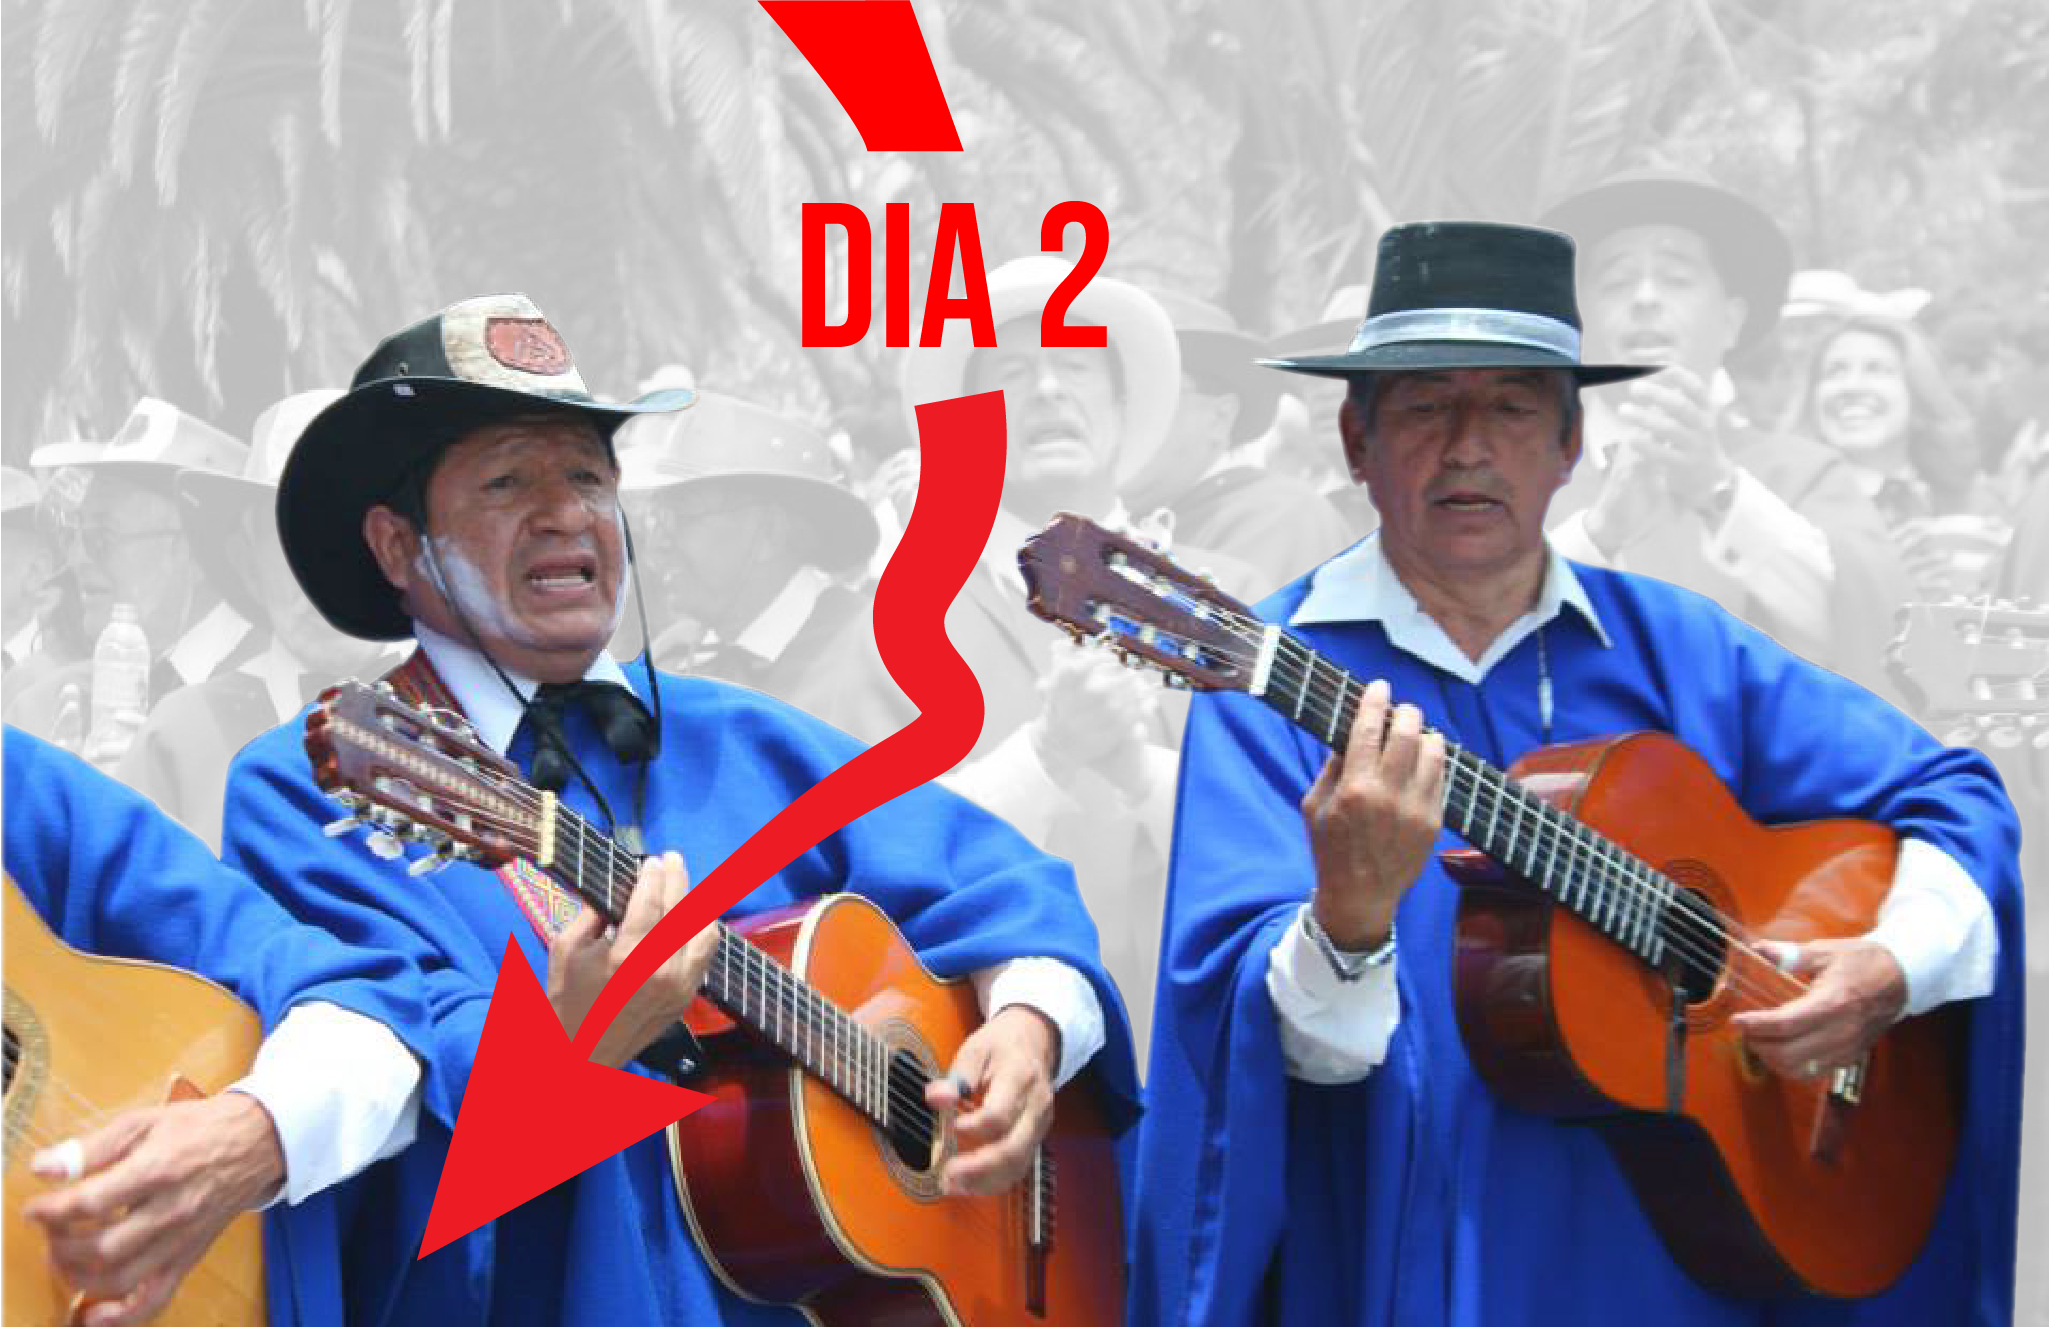
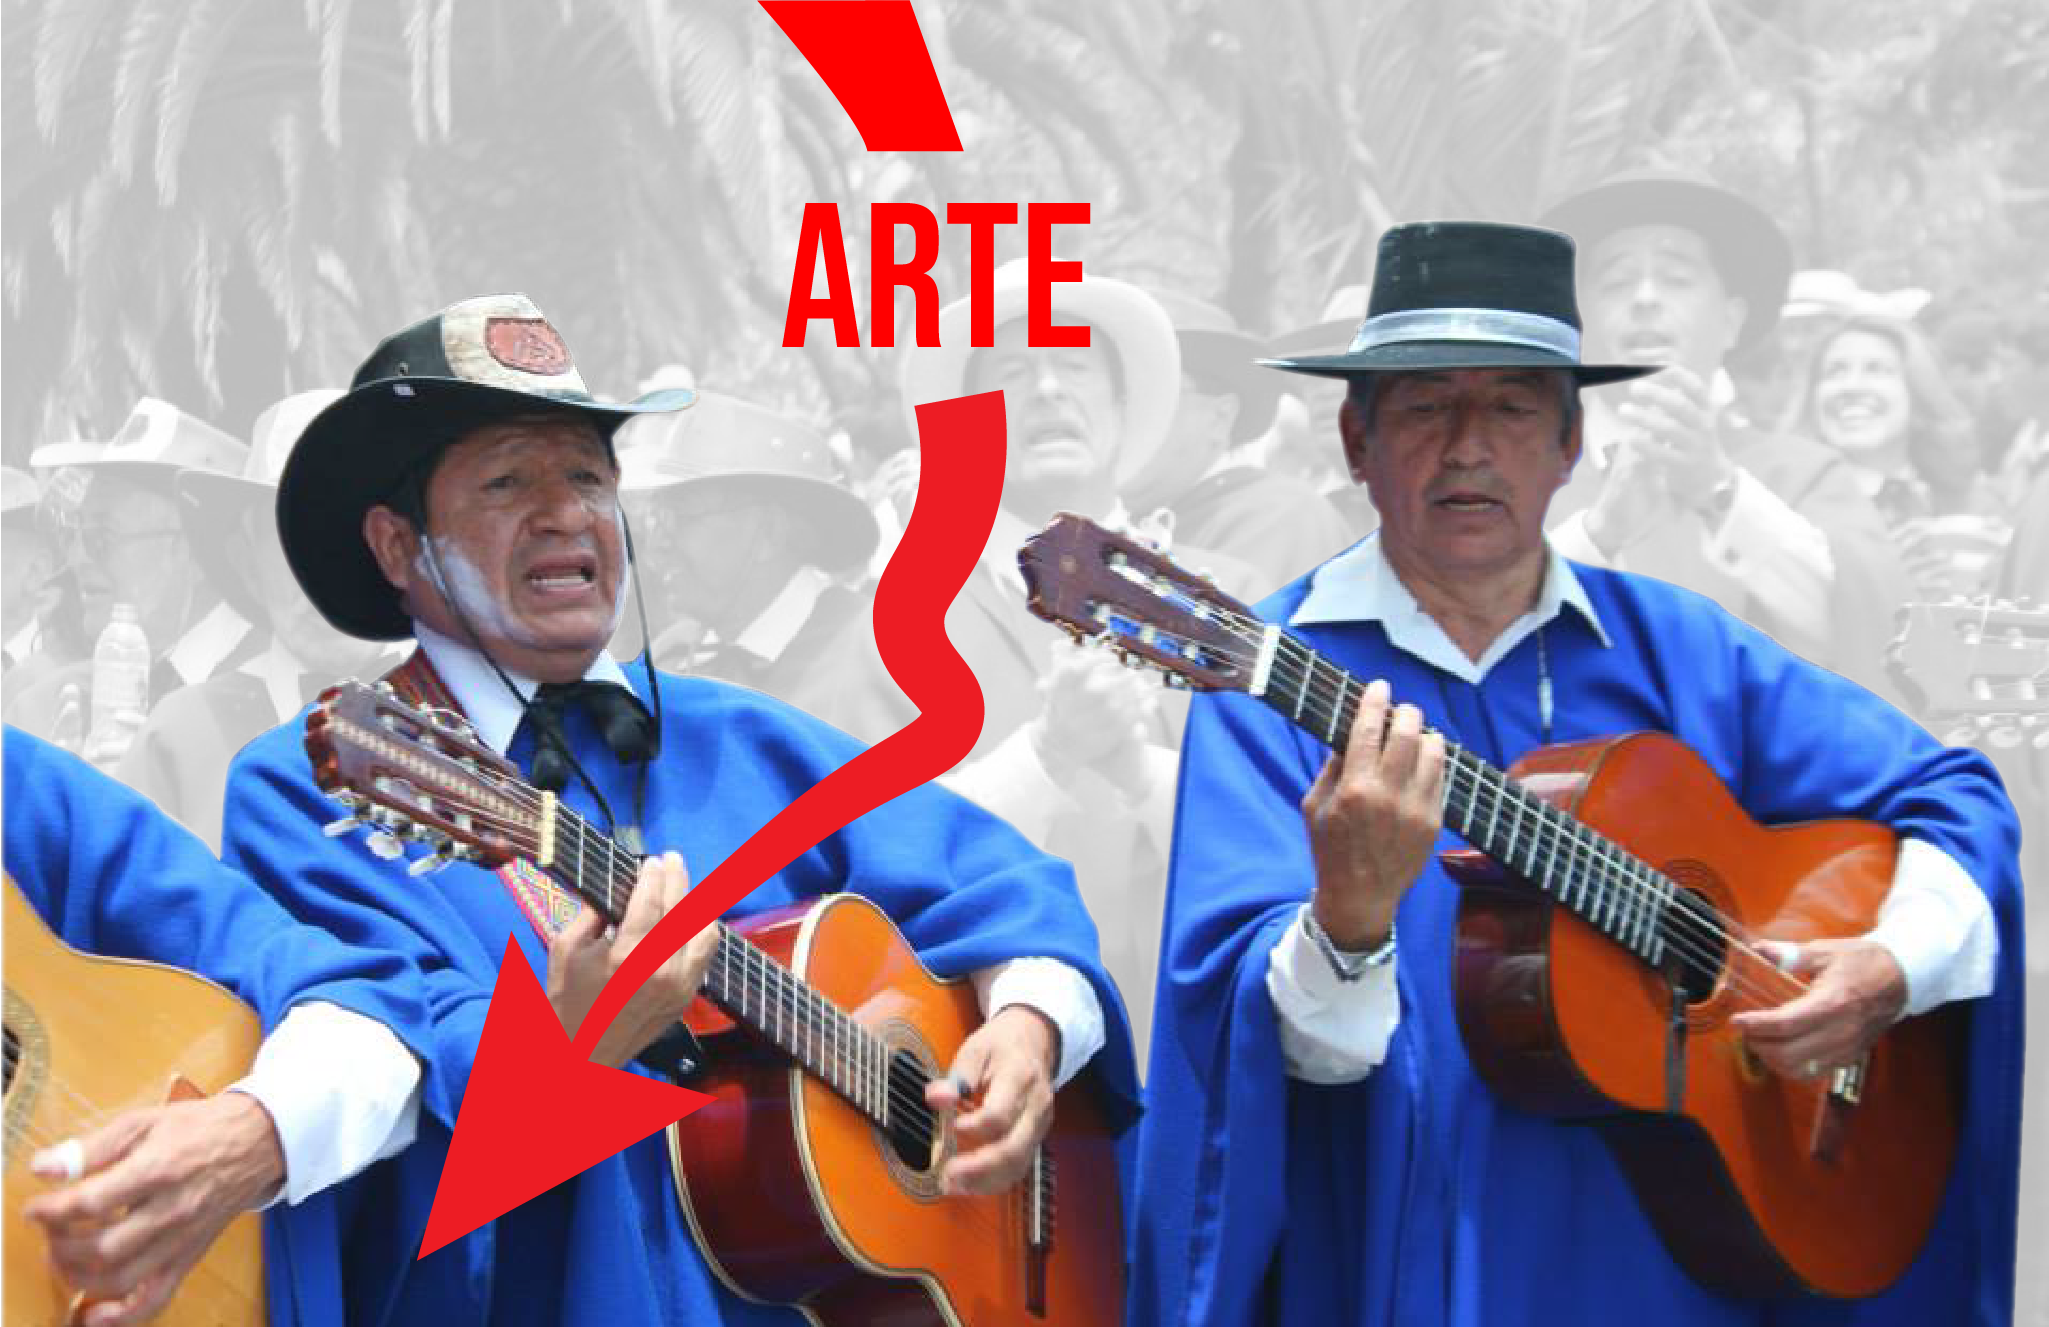
Versión 5

Changed region(s): [[0.3748, 0.1545, 0.5622, 0.2781], [0.531, 0.2472, 0.5622, 0.2781]]

diff --git a/index.html b/index.html
@@ -313,65 +313,16 @@
                 </div>
             </section>
 
-            <section class="container">
-                <div class="row">
-                    <div class="col-sm-10 col-md-8 col-lg-6 mx-auto">
-                        <h3 class="my-5 text-center">Personajes</h3>
-
-                        <div id="carouselExampleIndicators" class="carousel slide" data-bs-ride="true">
-                            <div class="carousel-indicators">
-                                <button type="button" data-bs-target="#carouselExampleIndicators" data-bs-slide-to="0" class="active" aria-current="true" aria-label="Slide 1"></button>
-                                <button type="button" data-bs-target="#carouselExampleIndicators" data-bs-slide-to="1" aria-label="Slide 2"></button>
-                                <button type="button" data-bs-target="#carouselExampleIndicators" data-bs-slide-to="2" aria-label="Slide 3"></button>
-                                <button type="button" data-bs-target="#carouselExampleIndicators" data-bs-slide-to="3" aria-label="Slide 4"></button>
-                            </div>
-                            <div class="carousel-inner">
-                                <div class="carousel-item active">
-                                    <img src="img/taita.png" class="w-100" />
-                                    <div class="carousel-caption d-none d-md-block text-black-50">
-                                        <h5>El Taita</h5>
-                                        <p> Conocido como el "Gran Taita", es quien encabeza los desfiles y baila al compás de la música del pueblo mientras que saborea el legendario y tradicional licor pájaro azul.</p>
-                                    </div>
-                                </div>
-                                <div class="carousel-item">
-                                    <img src="img/taita.png" class="w-100" />
-                                    <div class="carousel-caption d-none d-md-block text-black-50">
-                                        <h5>Huasi Tupac</h5>
-                                        <p>El alma del Carnaval; están encargados de recibir a los carnavaleros con hermandad y cortesía. Hacen preguntas al público por medio de canciones que, de ser contestadas correctamente, son recompensadas con comida típica.</p>
-                                    </div>
-                                </div>
-                                <div class="carousel-item">
-                                    <img src="img/taita.png" class="w-100" />
-                                    <div class="carousel-caption d-none d-md-block text-black-50">
-                                        <h5>La Reina</h5>
-                                        <p> Es elegida comunitariamente, debe representar la unión, la feminidad y ser un modelo a seguir de la comunidad. </p>
-                                    </div>
-                                </div>
-                                <div class="carousel-item">
-                                    <img src="img/carishina.png" class="w-100" />
-                                    <div class="carousel-caption d-none d-md-block text-black-50" >
-                                        <h5>Carishina</h5>
-                                        <p> Es un hombre que se viste de mujer, que va al frente en los carros alegóricos y estos son decorados con flores y paja, así como también encabeza las comparsas. </p>
-                                    </div>
-                                </div>
-                            </div>
-                            <button class="carousel-control-prev" type="button" data-bs-target="#carouselExampleIndicators" data-bs-slide="prev">
-                                <span class="carousel-control-prev-icon" aria-hidden="true"></span>
-                                <span class="visually-hidden">Previous</span>
-                            </button>
-                            <button class="carousel-control-next" type="button" data-bs-target="#carouselExampleIndicators" data-bs-slide="next">
-                                <span class="carousel-control-next-icon" aria-hidden="true"></span>
-                                <span class="visually-hidden">Next</span>
-                            </button>
-                        </div>
-                    </div>
+            <section class="container my-5">
+                <div class="ratio ratio-16x9">
+                    <iframe src="https://www.youtube.com/embed/" title="Resumen del Carnaval" frameborder="0" allow="accelerometer; autoplay; clipboard-write; encrypted-media; gyroscope; picture-in-picture" allowfullscreen=""></iframe>
                 </div>
             </section>
 
             <section class="container">
                 <div class="row">
                     <div class="col-sm-10 col-md-8 mx-auto my-5">
-
+                        <h3 class="my-5 text-center">Festividades</h3>
                         <!--impar-->
                         <div class="row align-items-center my-3">
                             <div class="col-md-6">
@@ -379,7 +330,6 @@
                             </div>
                             <div class="col-md-6">
                                 <div class="text-md-start p-4">
-                                    <h5 style="color:grey;"> El primer día</h5>
                                     <h4>EL CARNAVAL</h4>
                                     <p class="lead my-6">
                                         Desfilan coloridas comparsas de diversas comunidades campesinas e invitados de otras provincias. Participan los carros alegóricos, bandas de pueblo, grupos folclóricos, escuelas, la Reina de Guaranda y, por supuesto, el Taita.
@@ -394,7 +344,6 @@
                             </div>
                             <div class="col-md-6">
                                 <div class="text-md-end p-4">
-                                    <h5 style="color:grey;"> El segundo día</h5>
                                     <h4>CELEBRACIÓN AL ARTE</h4>
                                     <p class="lead my-6">
                                       La música, la poesía y el arte se exponen y se presentan. Un día lleno de cultura e intercambios artísticos.
@@ -409,7 +358,6 @@
                             </div>
                             <div class="col-md-6">
                                 <div class="text-md-start p-4">
-                                    <h5 style="color:grey;"> El tercer día</h5>
                                     <h4>FERIA GASTRONÓMICA</h4>
                                     <p class="lead my-6">
                                       La comida se celebra, ofreciendo platos tradicionales, ollas comunes y bebidas típicas (con y sin alcohol). Todas las casas abren sus puertas para obsequiar platos preparados con los elementos clásicos como ave, maíz, tamales.
@@ -493,14 +441,7 @@
                                     </div>
                                 </div>
                                 <div class="carousel-item">
-                                    <img src="img/taita.png" class="w-100" />
-                                    <div class="carousel-caption d-none d-md-block text-black-50">
-                                        <h5>Huasi Tupac</h5>
-                                        <p>El alma del Carnaval; están encargados de recibir a los carnavaleros con hermandad y cortesía. Hacen preguntas al público por medio de canciones que, de ser contestadas correctamente, son recompensadas con comida típica.</p>
-                                    </div>
-                                </div>
-                                <div class="carousel-item">
-                                    <img src="img/taita.png" class="w-100" />
+                                    <img src="img/reina.png" class="w-100" />
                                     <div class="carousel-caption d-none d-md-block text-black-50">
                                         <h5>La Reina</h5>
                                         <p> Es elegida comunitariamente, debe representar la unión, la feminidad y ser un modelo a seguir de la comunidad. </p>
@@ -511,6 +452,13 @@
                                     <div class="carousel-caption d-none d-md-block text-black-50" >
                                         <h5>Carishina</h5>
                                         <p> Es un hombre que se viste de mujer, que va al frente en los carros alegóricos y estos son decorados con flores y paja, así como también encabeza las comparsas. </p>
+                                    </div>
+                                </div>
+                                <div class="carousel-item">
+                                    <img src="img/huasi.png" class="w-100" />
+                                    <div class="carousel-caption d-none d-md-block text-black-50">
+                                        <h5>Huasi Tupac</h5>
+                                        <p>El alma del Carnaval; están encargados de recibir a los carnavaleros con hermandad y cortesía. Hacen preguntas al público por medio de canciones que, de ser contestadas correctamente, son recompensadas con comida típica.</p>
                                     </div>
                                 </div>
                             </div>
@@ -530,8 +478,7 @@
             <section class="container-fluid g-0">
                 <div class="row g-0">
                     <div class="col-12 text-center">
-                        <h3 class="mt-5 mb-3">Trayecto</h3>
-                        <img src="img/recorrido.svg" class="w-100" />
+                        <img src="img/trayecto.png" class="w-100" />
                     </div>
                 </div>
             </section>
